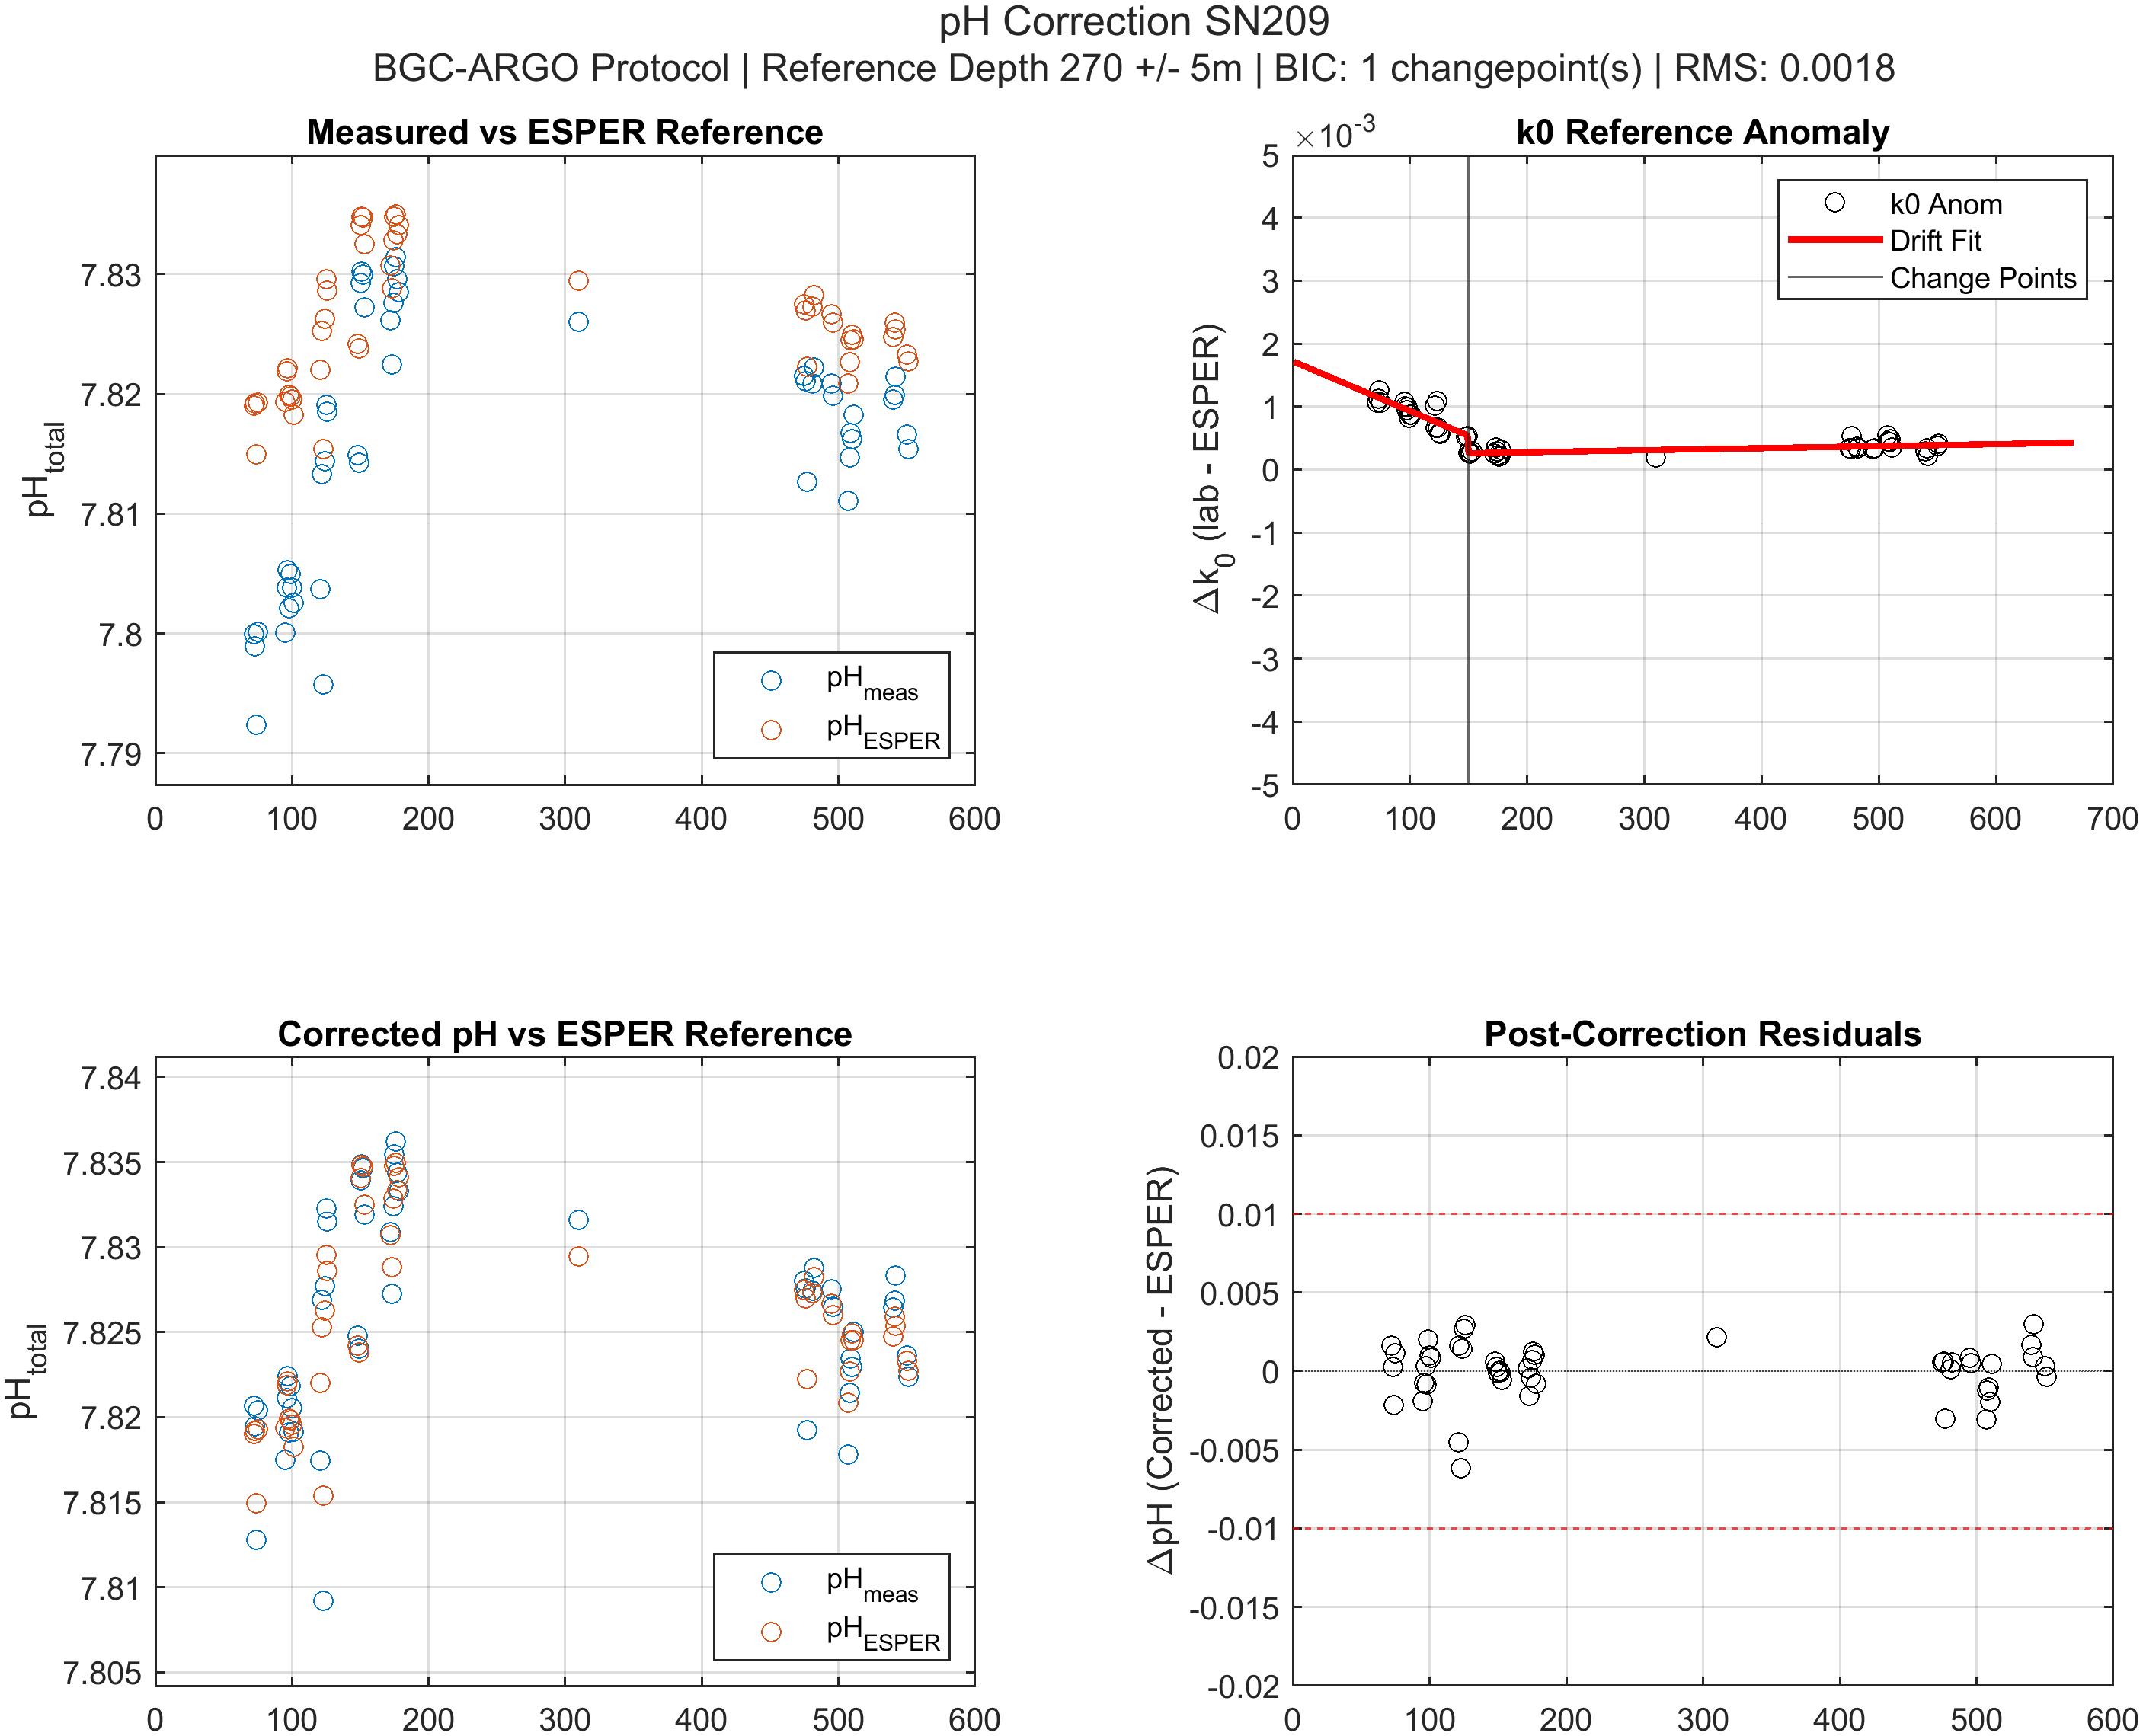
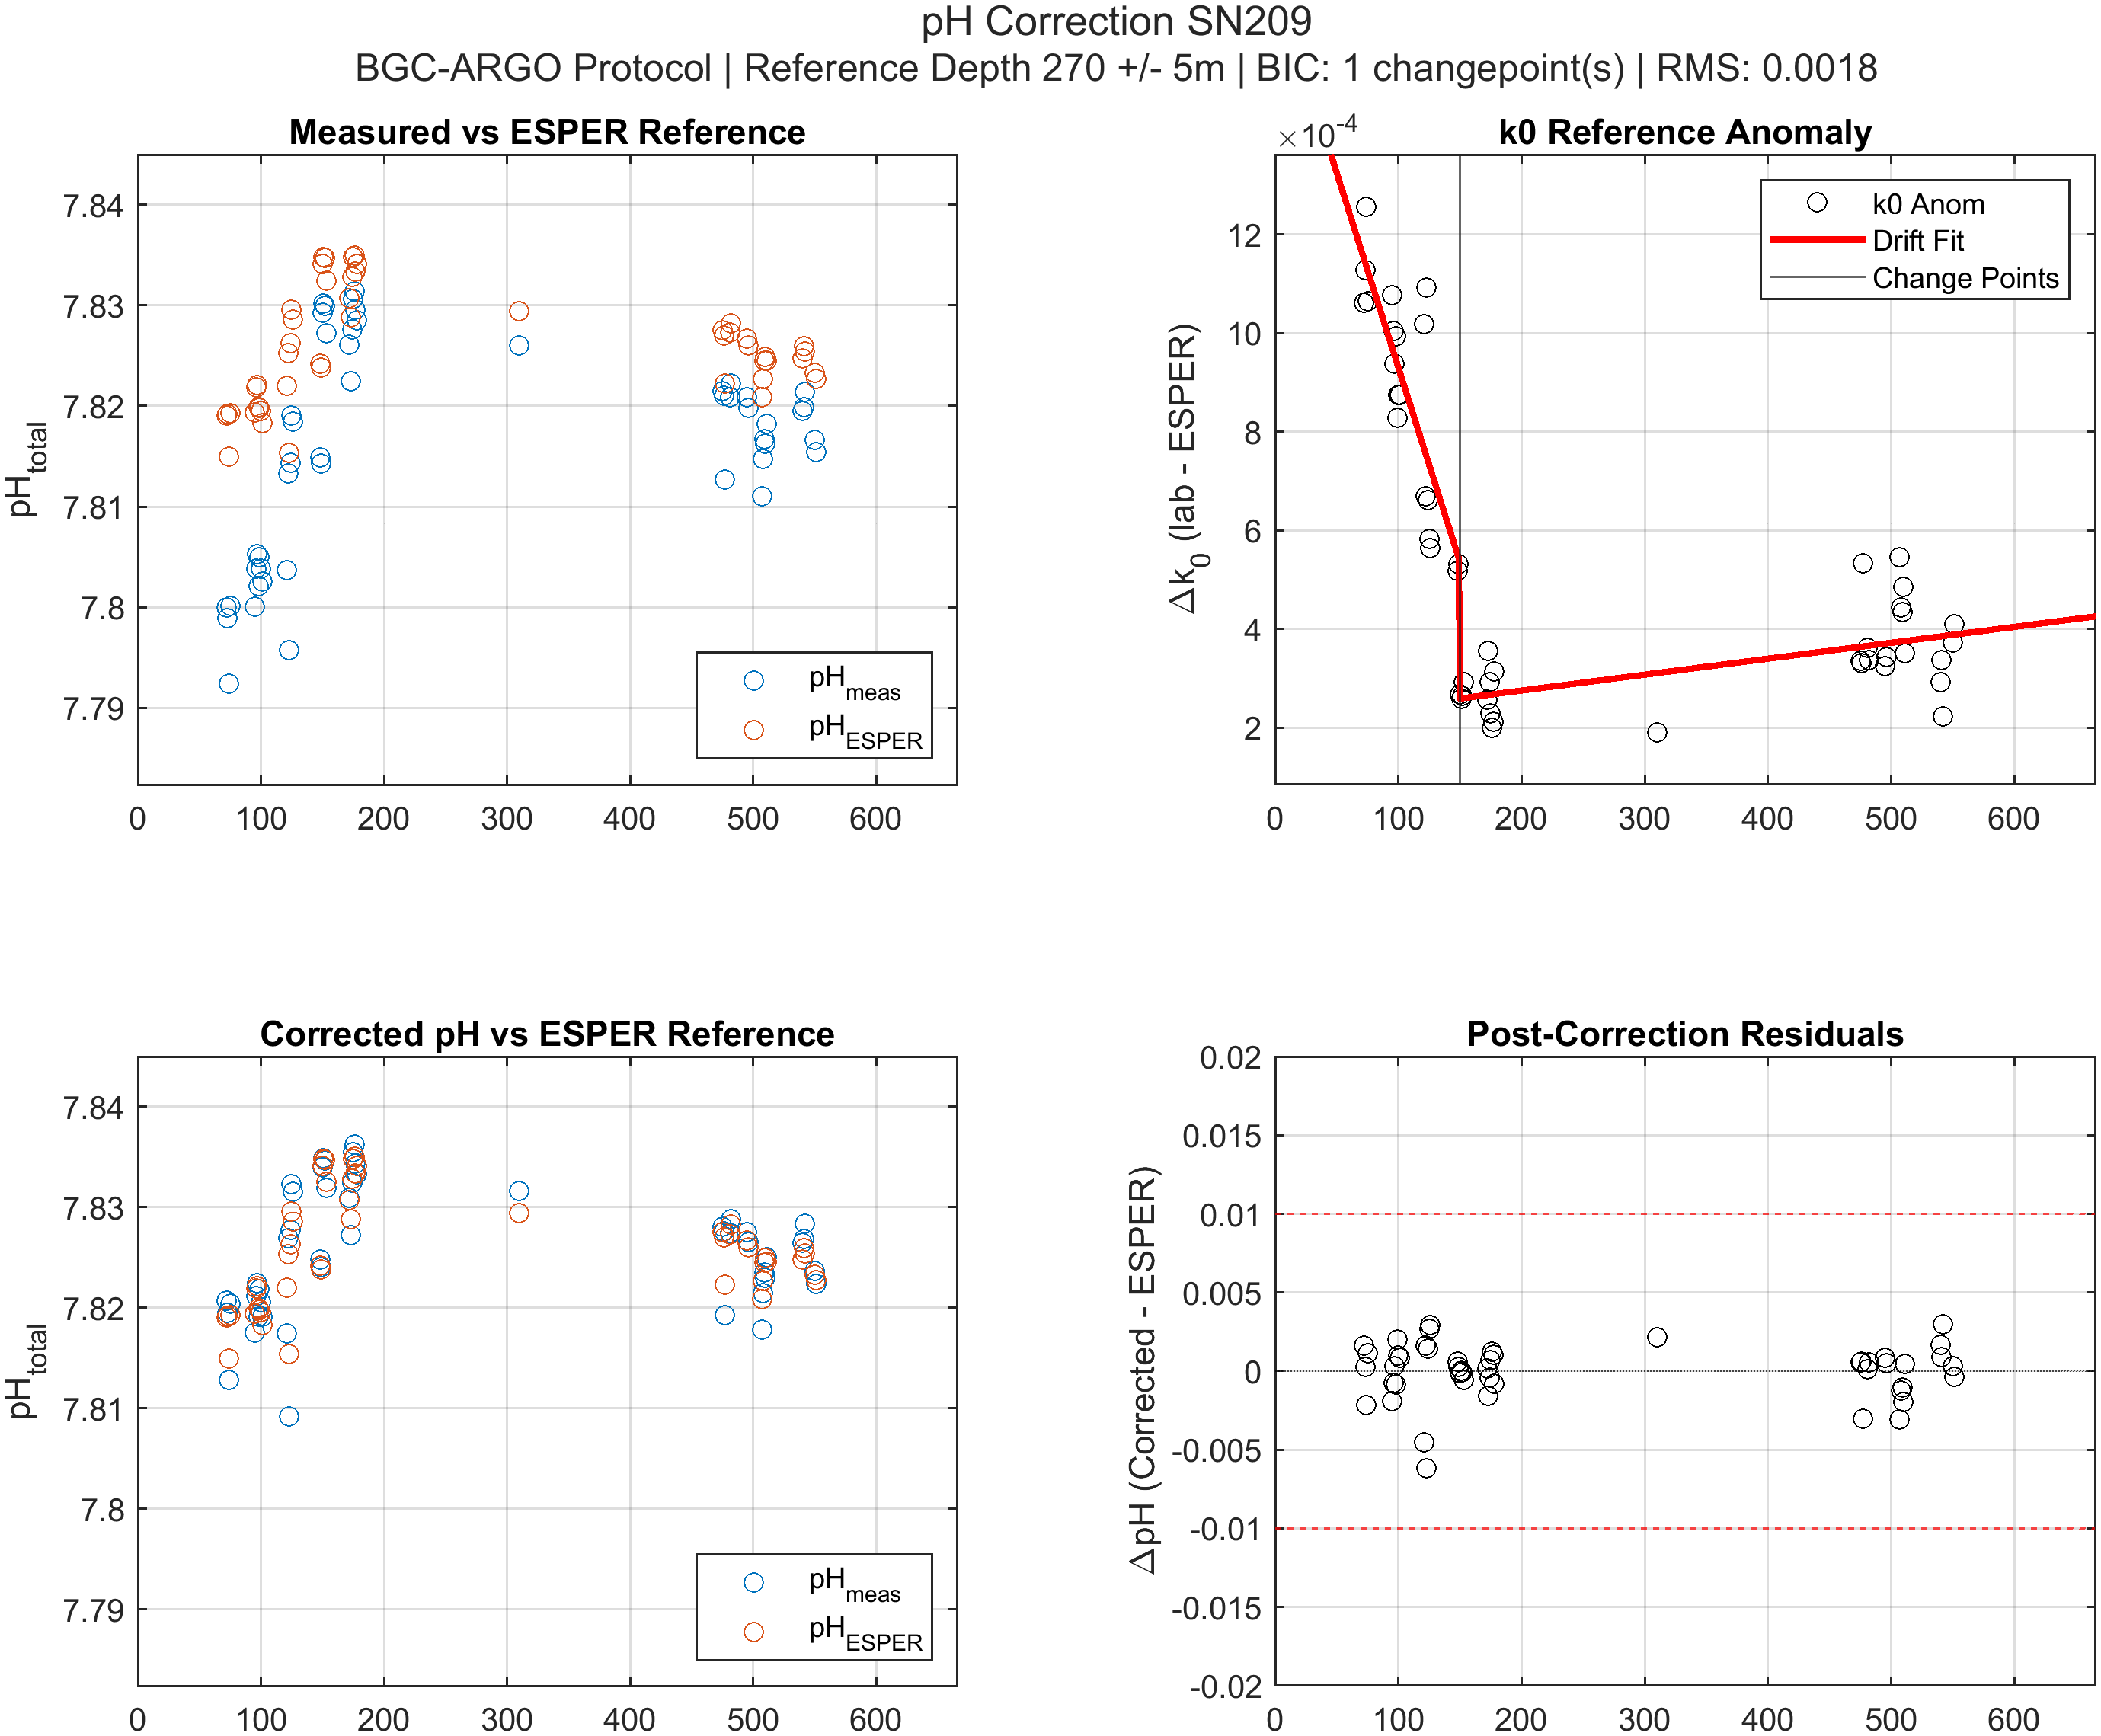
updates BIC criteria
new figures

diff --git a/PostProcessingAnalysis/find_chngpts_k0.m b/PostProcessingAnalysis/find_chngpts_k0.m
@@ -1,5 +1,5 @@
-missionID = '2507020902';
-SN        = missionID(6:8); % Spray glider SN
+missionID = '2508021001';
+SN        = missionID(6:8);
 fname     = fullfile("data", [missionID, '_esper.mat']);
 load(fname);
 
@@ -12,7 +12,7 @@ Pcoefs = [ph_cal.fp_k1, ph_cal.fp_k2, ph_cal.fp_k3, ...
           ph_cal.fp_k4, ph_cal.fp_k5, ph_cal.fp_k6]';
 
 %% Compute reference anomaly at depth
-depth          = 270;
+depth          = 240;
 depthTolerance = 5;
 ndive          = length(data.ESPER.ph);
 profile        = 1:ndive;
@@ -27,140 +27,181 @@ data.ph.ph_correctedAtDepth             = NaN(1, ndive);
 
 for i = 1:ndive
     iphase = data.ph.phase{i} == 0;
+    if isempty(iphase), continue, end
     [minDist, idepth] = min(abs(data.ESPER.depth{i}(iphase) - depth));
     if minDist > depthTolerance, continue, end
 
     iphase_idx = find(iphase);
     target_idx = iphase_idx(idepth);
 
-    % Full phase==0 profiles
     data.ESPER.referenceAnomaly{i}    = data.ph.ph{i}(iphase) - data.ESPER.ph_corrected{i}(iphase);
     data.ph.phProfile{i}              = data.ph.ph{i}(iphase);
     data.ESPER.ph_correctedProfile{i} = data.ESPER.ph_corrected{i}(iphase);
 
-    % Scalar at target depth
-    data.ph.phAtDepth(i)                     = data.ph.ph{i}(target_idx);
-    data.ESPER.ph_correctedAtDepth(i)        = data.ESPER.ph_corrected{i}(target_idx);
-    data.ESPER.referenceAnomalyTimeSeries(i) = data.ESPER.referenceAnomaly{i}(idepth);
-    data.ESPER.k0(i)                         = k0frompH_claude( ...
+    data.ph.phAtDepth(i)                       = data.ph.ph{i}(target_idx);
+    data.ESPER.ph_correctedAtDepth(i)          = data.ESPER.ph_corrected{i}(target_idx);
+    data.ESPER.referenceAnomalyTimeSeries(i)   = data.ESPER.referenceAnomaly{i}(idepth);
+    data.ESPER.k0(i)                           = k0frompH_claude( ...
         data.ph.Vrse{i}(target_idx), data.ph.p{i}(target_idx), ...
         data.ESPER.t{i}(target_idx), data.ESPER.s{i}(target_idx), ...
         data.ESPER.ph_corrected{i}(target_idx), ph_cal.k2, Pcoefs);
     data.ESPER.k0referenceAnomalyTimeSeries(i) = ph_cal.k0 - data.ESPER.k0(i);
 end
-
-%% Compute fixed y-axis limits once from the raw data (consistent across BIC)
-ylim_ph_raw  = [min([data.ph.phAtDepth, data.ESPER.ph_correctedAtDepth], [], 'omitnan') - 0.01, ...
-                max([data.ph.phAtDepth, data.ESPER.ph_correctedAtDepth], [], 'omitnan') + 0.01];
-ylim_k0      = [-0.005, 0.005];
-ylim_residual= [-0.02,  0.02];
-% ph_corrected tile will share ylim_ph_raw (set after correction loop)
-
 %% Output directory
 outdir = fullfile("figures", "k0_correct");
 if ~exist(outdir, 'dir'), mkdir(outdir); end
+%% BIC-based optimal changepoint selection
+max_changepoints = 5;
+bic_scores       = NaN(1, max_changepoints + 1);
 
-%% Loop over BIC changepoints 0-2
-for BIC_changepoints = 0:2
+y     = data.ESPER.k0referenceAnomalyTimeSeries(:);
+x     = profile(:);
+valid = ~isnan(y);
+y_fit = y(valid);
+x_fit = x(valid);
+n     = length(y_fit);
 
-    % --- Drift fit ---
-    if BIC_changepoints == 0
-        valid  = ~isnan(data.ESPER.k0referenceAnomalyTimeSeries);
-        p      = polyfit(profile(valid), data.ESPER.k0referenceAnomalyTimeSeries(valid), 1);
-        linfit = polyval(p, profile);
-        TF     = false(size(profile));
+errorLim = 0.001; % Noise of sensor ** Need to set this for k0**
+
+for k = 0:max_changepoints
+    if k == 0
+        p        = polyfit(x_fit, y_fit, 1);
+        yhat     = polyval(p, x_fit);
+        n_params = 2;
     else
-        [TF, S1, S2] = ischange(data.ESPER.k0referenceAnomalyTimeSeries, 'linear', 'MaxNumChanges', BIC_changepoints);
-        S1_full      = fillmissing(S1, 'nearest');
-        S2_full      = fillmissing(S2, 'nearest');
-        linfit       = S1_full .* profile + S2_full;
+        [~, S1, S2] = ischange(y_fit, 'linear', 'MaxNumChanges', k);
+        S1_full     = fillmissing(S1, 'nearest');
+        S2_full     = fillmissing(S2, 'nearest');
+        yhat        = S1_full .* x_fit + S2_full;
+        n_params    = 2 * (k + 1);
     end
+    rss               = sum((y_fit - yhat).^2);
+    % bic_scores(k + 1) = n * log(rss / n) + n_params * log(n);
+    bic_scores(k + 1) = n * log(rss/n + errorLim^2) + n_params * log(n);
+end
 
-    data.ESPER.k0_corrected        = ph_cal.k0 - linfit;
-    data.ESPER.k0anomaly_corrected = data.ESPER.k0 - linfit;
+[~, best_idx]    = min(bic_scores);
+BIC_changepoints = best_idx - 1;
+fprintf('BIC scores (k=0 to %d): %s\n', max_changepoints, num2str(bic_scores, '%.2f  '));
+fprintf('Optimal changepoints: %d\n', BIC_changepoints);
 
-    % --- Recompute pH with corrected k0 ---
-    data.ph.ph_corrected = cell(size(data.ph.ph));
-    for n = 1:ndive
-        if ~isempty(data.ph.Vrse{n})
-            [~, iuse] = unique(data.ctd.time{n});
-            if length(iuse) > 1
-                ss = interp1(data.ctd.time{n}(iuse), data.ctd.s{n}(iuse), data.ph.time{n}, 'linear', 'extrap');
-                tt = interp1(data.ctd.time{n}(iuse), data.ctd.t{n}(iuse), data.ph.time{n}, 'linear', 'extrap');
-                [~, data.ph.ph_corrected{n}] = phcalc_jp(data.ph.Vrse{n}, data.ph.p{n}, tt, ss, ...
-                    data.ESPER.k0_corrected(n), ph_cal.k2, Pcoefs);
-            else
-                data.ph.ph_corrected{n} = NaN(size(data.ph.Vrse{n}));
-            end
+% BIC selection figure
+fig_bic = figure('Visible', 'off');
+plot(0:max_changepoints, bic_scores, 'ko-', 'LineWidth', 1.5, 'MarkerFaceColor', 'k');
+xline(BIC_changepoints, 'r--', sprintf('k=%d (optimal)', BIC_changepoints), LabelVerticalAlignment='bottom');
+grid on
+xlabel('Number of changepoints')
+ylabel('BIC')
+title(sprintf('BIC model selection — SN%s', SN))
+set(fig_bic, 'Units', 'inches', 'Position', [0 0 6 4]);
+figname_bic = fullfile(outdir, sprintf('SN%s_BIC_selection.png', SN));
+exportgraphics(fig_bic, figname_bic, 'Resolution', 300);
+close(fig_bic);
+fprintf('Saved: %s\n', figname_bic);
+%% Fixed y-axis limits (consistent across all plots)
+ylim_ph_raw   = [min([data.ph.phAtDepth, data.ESPER.ph_correctedAtDepth], [], 'omitnan') - 0.01, ...
+                 max([data.ph.phAtDepth, data.ESPER.ph_correctedAtDepth], [], 'omitnan') + 0.01];
+k0_range      = data.ESPER.k0referenceAnomalyTimeSeries(~isnan(data.ESPER.k0referenceAnomalyTimeSeries));
+pad           = 0.1 * range(k0_range);
+ylim_k0       = [min(k0_range) - pad, max(k0_range) + pad];
+ylim_residual = [-0.02, 0.02];
+
+%% Drift fit with optimal BIC changepoints
+if BIC_changepoints == 0
+    valid  = ~isnan(data.ESPER.k0referenceAnomalyTimeSeries);
+    p      = polyfit(profile(valid), data.ESPER.k0referenceAnomalyTimeSeries(valid), 1);
+    linfit = polyval(p, profile);
+    TF     = false(size(profile));
+else
+    [TF, S1, S2] = ischange(data.ESPER.k0referenceAnomalyTimeSeries, 'linear', 'MaxNumChanges', BIC_changepoints);
+    S1_full      = fillmissing(S1, 'nearest');
+    S2_full      = fillmissing(S2, 'nearest');
+    linfit       = S1_full .* profile + S2_full;
+end
+
+data.ESPER.k0_corrected        = ph_cal.k0 - linfit;
+data.ESPER.k0anomaly_corrected = data.ESPER.k0 - linfit;
+
+%% Recompute pH with corrected k0
+data.ph.ph_corrected = cell(size(data.ph.ph));
+for n = 1:ndive
+    if ~isempty(data.ph.Vrse{n})
+        [~, iuse] = unique(data.ctd.time{n});
+        if length(iuse) > 1
+            ss = interp1(data.ctd.time{n}(iuse), data.ctd.s{n}(iuse), data.ph.time{n}, 'linear', 'extrap');
+            tt = interp1(data.ctd.time{n}(iuse), data.ctd.t{n}(iuse), data.ph.time{n}, 'linear', 'extrap');
+            [~, data.ph.ph_corrected{n}] = phcalc_jp(data.ph.Vrse{n}, data.ph.p{n}, tt, ss, ...
+                data.ESPER.k0_corrected(n), ph_cal.k2, Pcoefs);
+        else
+            data.ph.ph_corrected{n} = NaN(size(data.ph.Vrse{n}));
         end
     end
-
-    % --- Extract corrected pH at depth ---
-    data.ph.ph_correctedAtDepth = NaN(1, ndive);
-    for i = 1:ndive
-        iphase = data.ph.phase{i} == 0;
-        [minDist, idepth] = min(abs(data.ESPER.depth{i}(iphase) - depth));
-        if minDist > depthTolerance, continue, end
-        iphase_idx = find(iphase);
-        target_idx = iphase_idx(idepth);
-        data.ph.ph_correctedAtDepth(i) = data.ph.ph_corrected{i}(target_idx);
-    end
-
-    rms_val = rms(data.ph.ph_correctedAtDepth - data.ESPER.ph_correctedAtDepth, 'omitnan');
-
-    % Corrected pH y-limits (computed per BIC since correction changes)
-    ylim_ph_corr = [min([data.ph.ph_correctedAtDepth, data.ESPER.ph_correctedAtDepth], [], 'omitnan') - 0.005, ...
-                    max([data.ph.ph_correctedAtDepth, data.ESPER.ph_correctedAtDepth], [], 'omitnan') + 0.005];
-
-    %% Figure
-    fig = figure('Visible', 'off');
-    tl  = tiledlayout(2, 2);
-    title(tl,    sprintf('pH Correction SN%s', SN))
-    subtitle(tl, sprintf('BGC-ARGO Protocol | Reference Depth %d +/- %dm | BIC: %d changepoint(s) | RMS: %.4f', ...
-             depth, depthTolerance, BIC_changepoints, rms_val))
-
-    ax1 = nexttile(tl, 1);
-    plot(profile, data.ph.phAtDepth,          'o'); hold on
-    plot(profile, data.ESPER.ph_correctedAtDepth, 'o')
-    ylim(ylim_ph_raw); grid on
-    title('Measured vs ESPER Reference')
-    ylabel('pH_{total}')
-    legend('pH_{meas}', 'pH_{ESPER}', Location='southeast')
-
-    ax2 = nexttile(tl, 2);
-    plot(profile, data.ESPER.k0referenceAnomalyTimeSeries, 'ko'); hold on
-    plot(profile, linfit, 'r-', 'LineWidth', 2)
-    if any(TF)
-        xline(profile(TF))
-        legend('k0 Anom', 'Drift Fit', 'Change Points', Location='northeast')
-    else
-        legend('k0 Anom', 'Drift Fit', Location='northeast')
-    end
-    ylim(ylim_k0); yticks(-0.005:0.001:0.005); grid on
-    title('k0 Reference Anomaly')
-    ylabel('\Deltak_0 (lab - ESPER)')
-
-    ax3 = nexttile(tl, 3);
-    plot(profile, data.ph.ph_correctedAtDepth,    'o'); hold on
-    plot(profile, data.ESPER.ph_correctedAtDepth, 'o')
-    % ylim(ylim_ph_corr); grid on
-    % yticks(linspace(ylim_ph_corr))
-    ylim(ylim_ph_raw); grid on
-    title('Corrected pH vs ESPER Reference')
-    ylabel('pH_{total}')
-    legend('pH_{meas}', 'pH_{ESPER}', Location='southeast')
-
-    ax4 = nexttile(tl, 4);
-    plot(profile, data.ph.ph_correctedAtDepth - data.ESPER.ph_correctedAtDepth, 'ko'); hold on
-    yline(-0.01, 'r--'); yline(0.01, 'r--'); yline(0, 'k', LineStyle=':')
-    ylim(ylim_residual); grid on
-    title('Post-Correction Residuals')
-    ylabel('\DeltapH (Corrected - ESPER)')
-
-    % Save
-    figname = fullfile(outdir, sprintf('SN%s_BIC%d_k0_pH_Correction.png', SN, BIC_changepoints));
-    set(fig, 'Units', 'inches', 'Position', [0 0 11 8.5]);
-    exportgraphics(fig, figname, 'Resolution', 300);
-    close(fig);
-    fprintf('Saved: %s\n', figname);
 end
+
+%% Extract corrected pH at depth
+data.ph.ph_correctedAtDepth = NaN(1, ndive);
+for i = 1:ndive
+    iphase = data.ph.phase{i} == 0;
+    if isempty(iphase), continue, end
+    [minDist, idepth] = min(abs(data.ESPER.depth{i}(iphase) - depth));
+    if minDist > depthTolerance, continue, end
+    iphase_idx = find(iphase);
+    target_idx = iphase_idx(idepth);
+    data.ph.ph_correctedAtDepth(i) = data.ph.ph_corrected{i}(target_idx);
+end
+
+rms_val = rms(data.ph.ph_correctedAtDepth - data.ESPER.ph_correctedAtDepth, 'omitnan');
+
+ylim_ph_corr = [min([data.ph.ph_correctedAtDepth, data.ESPER.ph_correctedAtDepth], [], 'omitnan') - 0.005, ...
+                max([data.ph.ph_correctedAtDepth, data.ESPER.ph_correctedAtDepth], [], 'omitnan') + 0.005];
+
+data.ph.BIC = {'chngpnts', BIC_changepoints; 'Ref Depth', depth; 'Depth Tolerance', depthTolerance};
+
+%% QC Figure
+fig = figure('Visible', 'off');
+tl  = tiledlayout(2, 2);
+title(tl,    sprintf('pH Correction SN%s', SN))
+subtitle(tl, sprintf('BGC-ARGO Protocol | Reference Depth %d +/- %dm | BIC: %d changepoint(s) | RMS: %.4f', ...
+         depth, depthTolerance, BIC_changepoints, rms_val))
+
+ax1 = nexttile(tl, 1);
+plot(profile, data.ph.phAtDepth,              'o'); hold on
+plot(profile, data.ESPER.ph_correctedAtDepth, 'o')
+ylim(ylim_ph_raw); xlim([0 max(profile)]); grid on
+title('Measured vs ESPER Reference')
+ylabel('pH_{total}')
+legend('pH_{meas}', 'pH_{ESPER}', Location='southeast')
+
+ax2 = nexttile(tl, 2);
+plot(profile, data.ESPER.k0referenceAnomalyTimeSeries, 'ko'); hold on
+plot(profile, linfit, 'r-', 'LineWidth', 2)
+if any(TF)
+    xline(profile(TF))
+    legend('k0 Anom', 'Drift Fit', 'Change Points', Location='northeast')
+else
+    legend('k0 Anom', 'Drift Fit', Location='northeast')
+end
+ylim(ylim_k0); xlim([0 max(profile)]); grid on
+title('k0 Reference Anomaly')
+ylabel('\Deltak_0 (lab - ESPER)')
+
+ax3 = nexttile(tl, 3);
+plot(profile, data.ph.ph_correctedAtDepth,    'o'); hold on
+plot(profile, data.ESPER.ph_correctedAtDepth, 'o')
+ylim(ylim_ph_raw); xlim([0 max(profile)]); grid on
+title('Corrected pH vs ESPER Reference')
+ylabel('pH_{total}')
+legend('pH_{meas}', 'pH_{ESPER}', Location='southeast')
+
+ax4 = nexttile(tl, 4);
+plot(profile, data.ph.ph_correctedAtDepth - data.ESPER.ph_correctedAtDepth, 'ko'); hold on
+yline(-0.01, 'r--'); yline(0.01, 'r--'); yline(0, 'k', LineStyle=':')
+ylim(ylim_residual); xlim([0 max(profile)]); grid on
+title('Post-Correction Residuals')
+ylabel('\DeltapH (Corrected - ESPER)')
+
+figname = fullfile(outdir, sprintf('SN%s_BIC%d_k0_pH_Correction.png', SN, BIC_changepoints));
+set(fig, 'Units', 'inches', 'Position', [0 0 11 8.5]);
+exportgraphics(fig, figname, 'Resolution', 300);
+close(fig);
+fprintf('Saved: %s\n', figname);

diff --git a/PostProcessingAnalysis/add_esper_struct.m b/PostProcessingAnalysis/add_esper_struct.m
@@ -102,7 +102,14 @@ for profile = 1:ndive
     profile_idx(profile, :) = [cursor + 1, cursor + n];
     cursor = cursor + n;
 end
+% --- Sanitize inputs: strip complex values to NaN ---
+% 2508021001 has some strange issues with complex values in s and ox ---
+all_s(~isreal(all_s))   = NaN;
+all_ox(~isreal(all_ox)) = NaN;
 
+% Cast to real double to be safe
+all_s  = real(double(all_s));
+all_ox = real(double(all_ox));
 % --- Single ESPER_TSO call ---
 if ~isempty(all_lat)
     disp('Running ESPER_TSO on all profiles...');